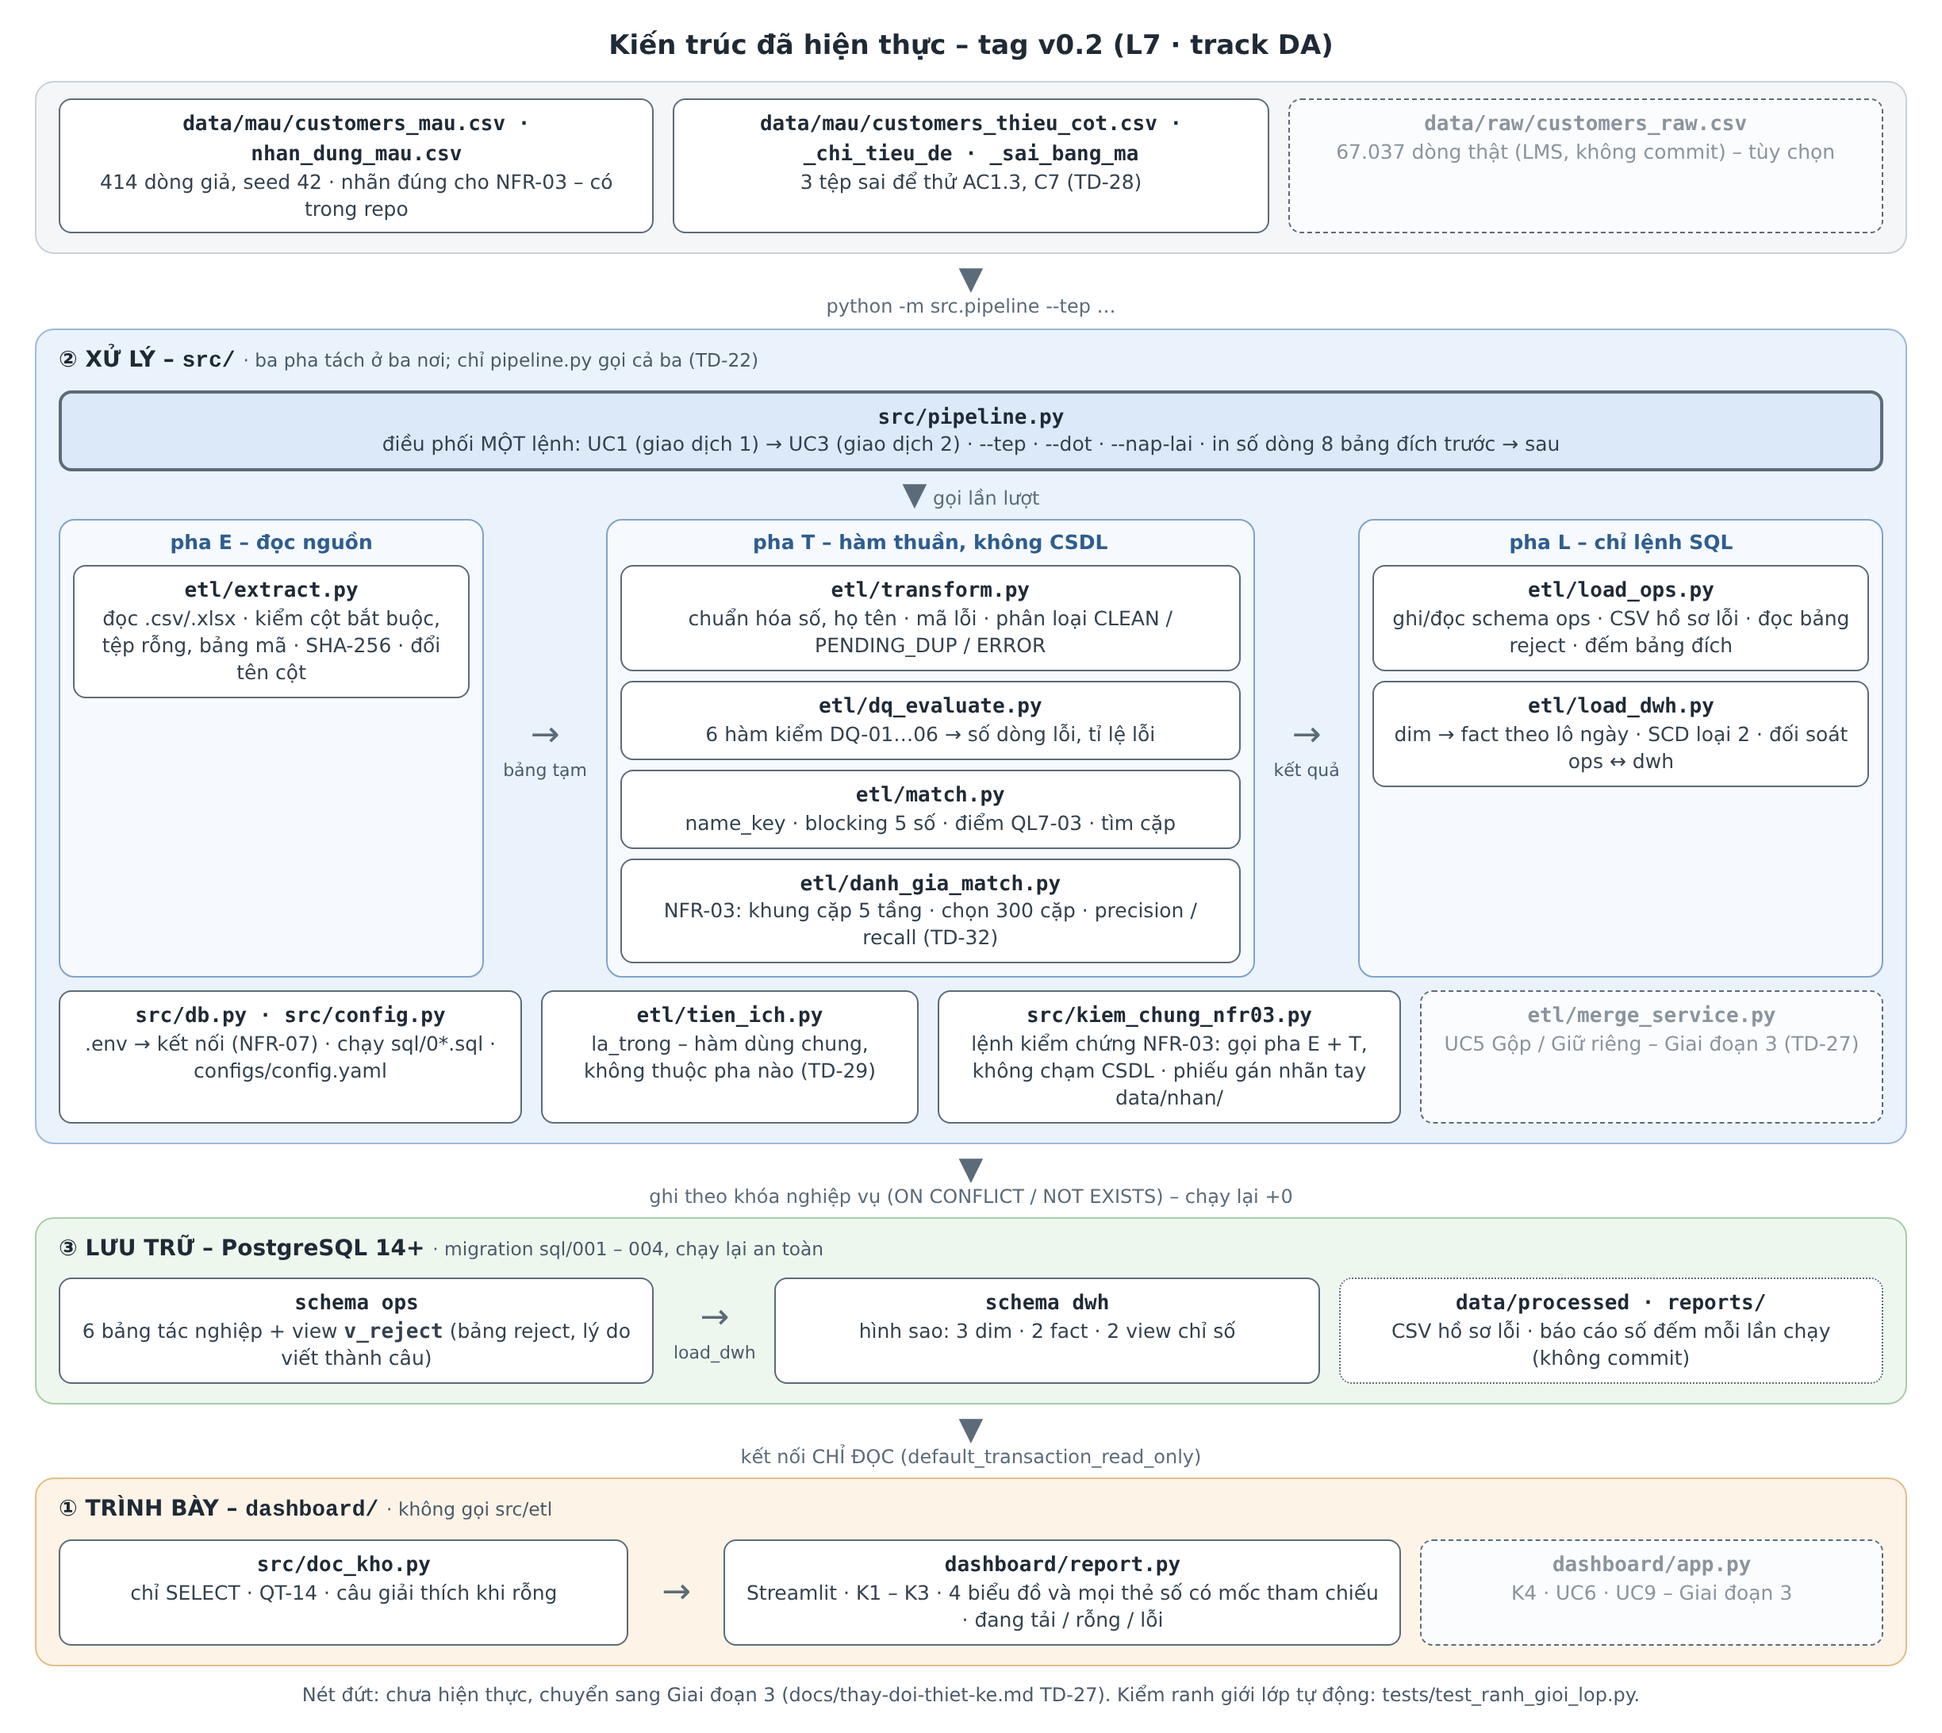
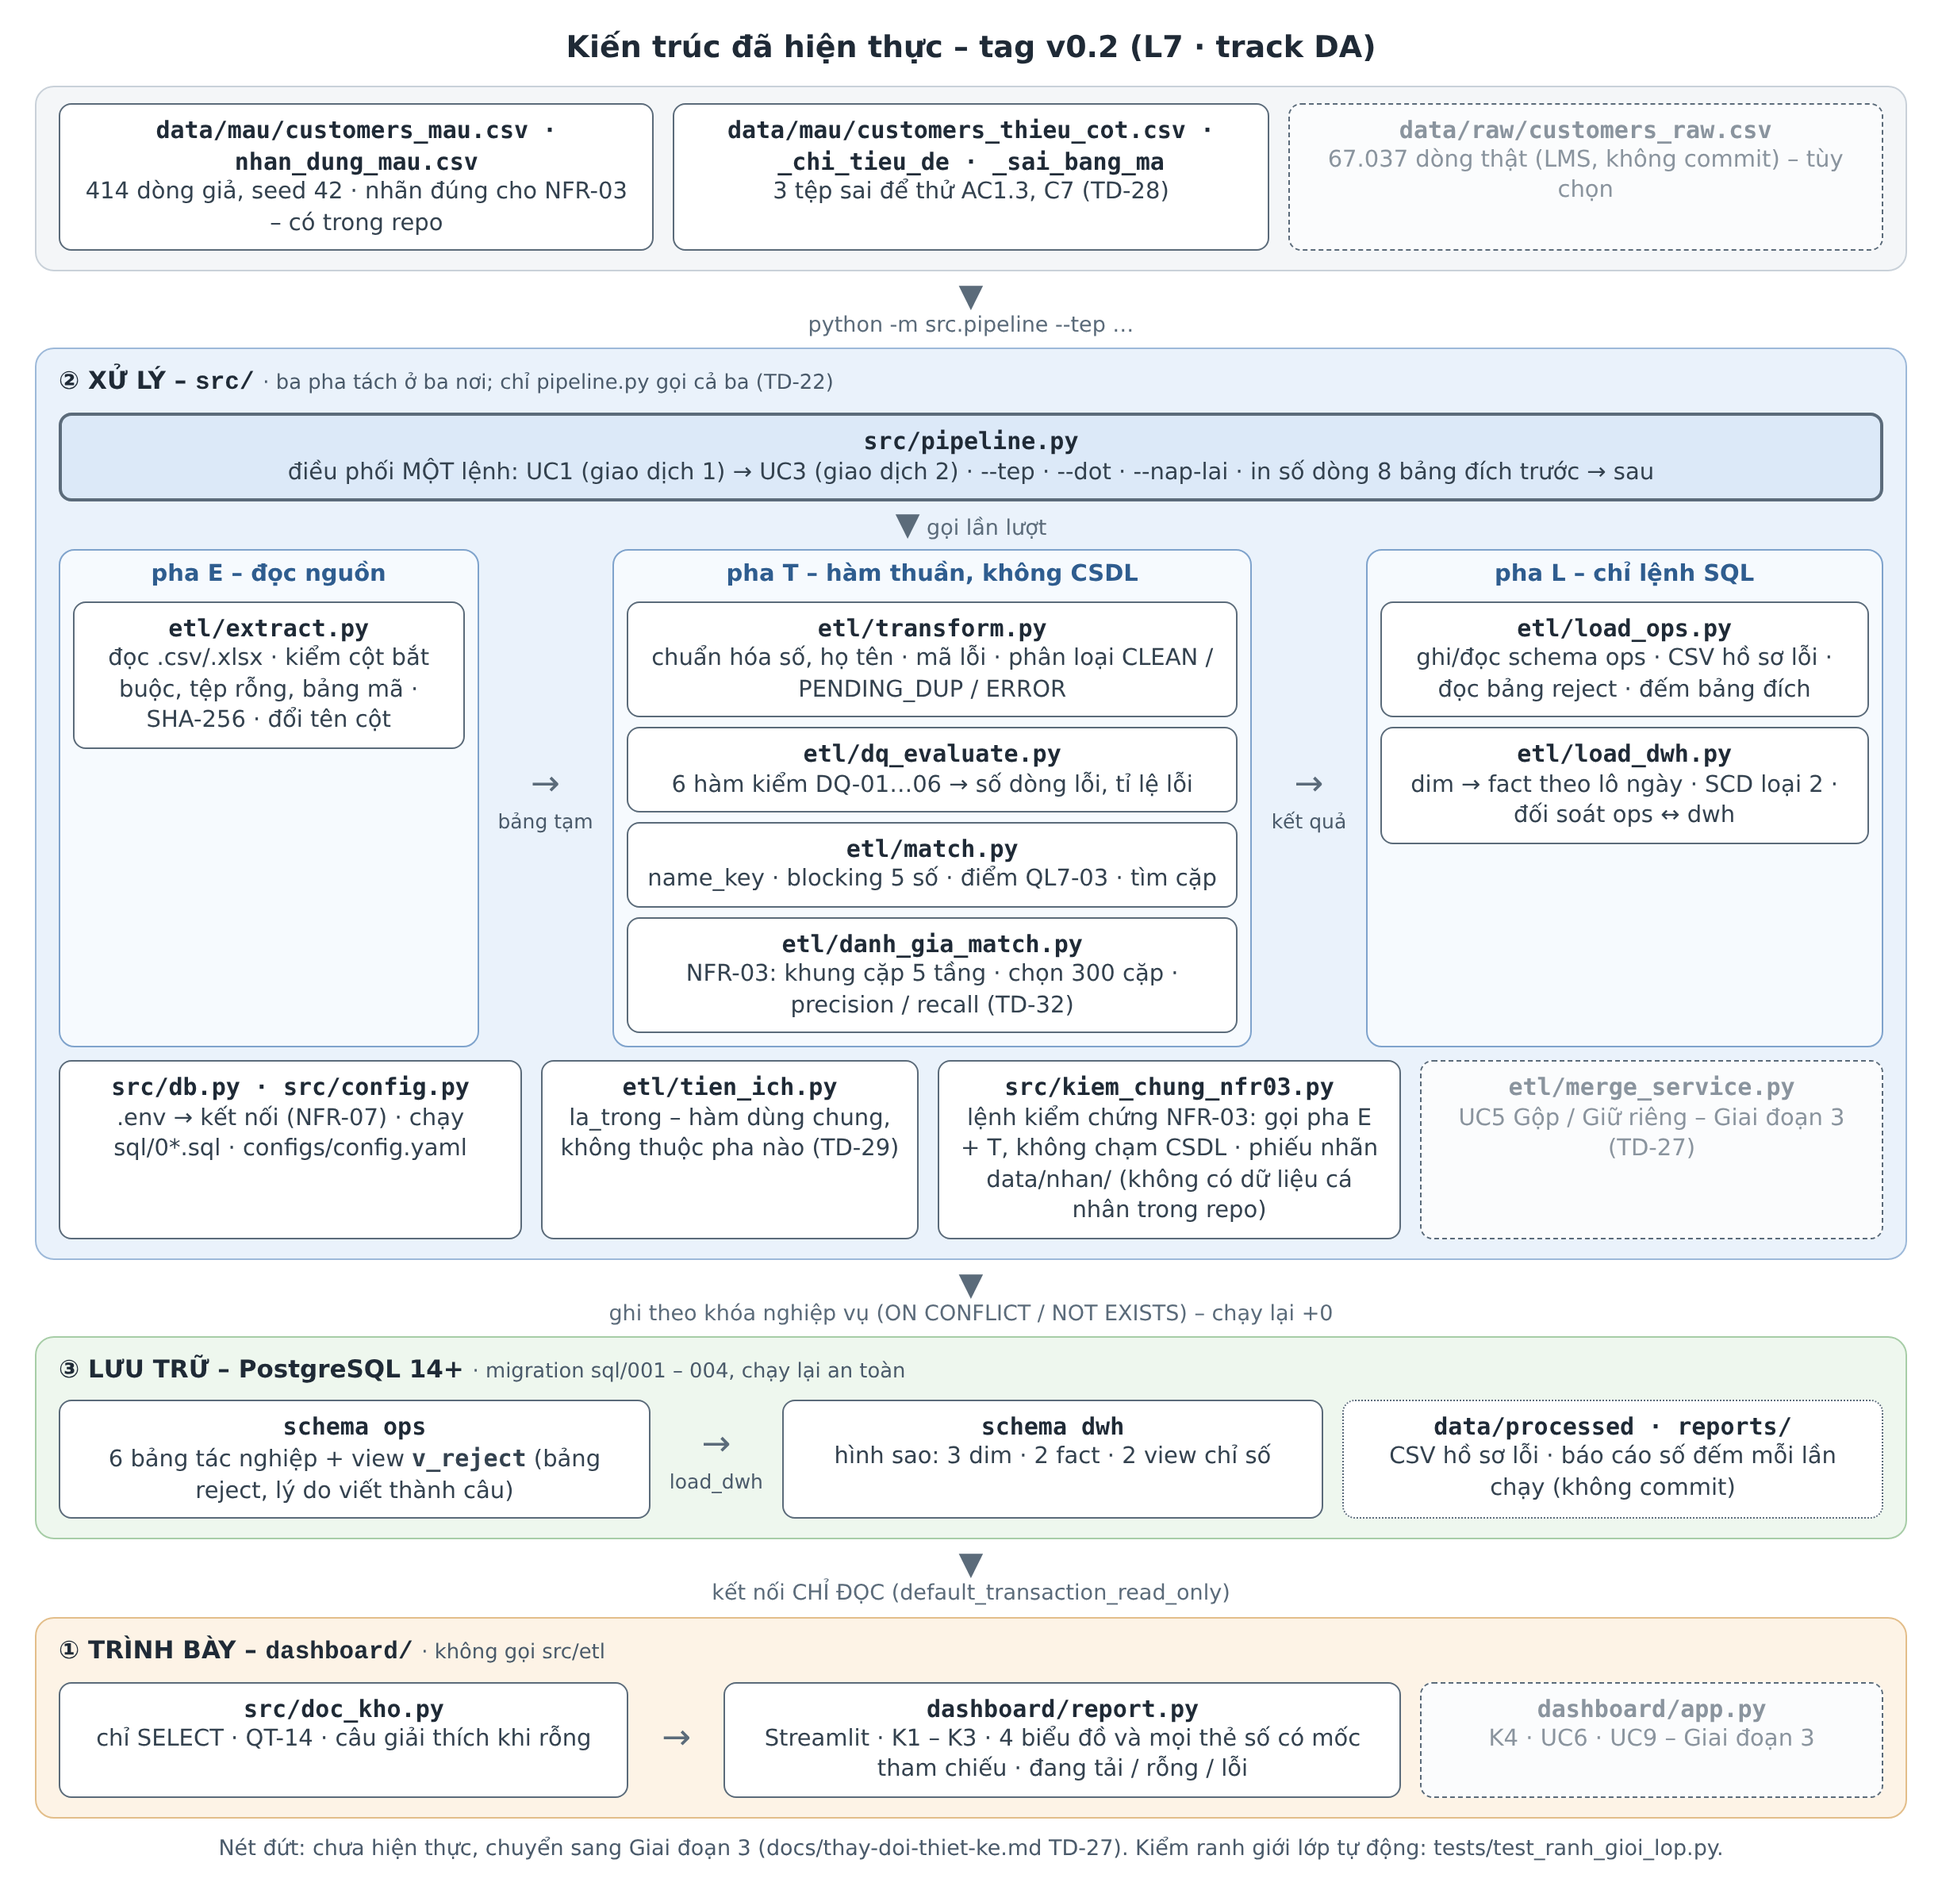
docs(kiến trúc): chữ trong sơ đồ đã hiện thực to hơn cho bản in (nhận xét BT1); ô kiem_chung_nfr03 ghi phiếu nhãn không có dữ liệu cá nhân
Claude-Session: https://claude.ai/code/session_01PMTm2ef48EpwJnyuXoDa6z

diff --git a/docs/architecture-thuc-te.html b/docs/architecture-thuc-te.html
@@ -3,28 +3,28 @@
      ở các điểm ghi trong docs/thay-doi-thiet-ke.md TD-22 – TD-32. Mở bằng trình duyệt; ảnh: docs/export/architecture-thuc-te.png -->
 <html lang="vi"><head><meta charset="utf-8"><title>Kiến trúc đã hiện thực – v0.2</title>
 <style>
-  body{margin:0;background:#fff;font:14px/1.35 "DejaVu Sans",Arial,sans-serif;color:#1f2a36}
+  body{margin:0;background:#fff;font:15px/1.35 "DejaVu Sans",Arial,sans-serif;color:#1f2a36}
   .khung{width:1180px;padding:18px 22px}
-  h1{font-size:17px;margin:0 0 10px;text-align:center}
+  h1{font-size:19px;margin:0 0 10px;text-align:center}
   .bang{border-radius:12px;padding:10px 14px 12px;margin:0}
-  .bang>.nhan{font-weight:700;font-size:14px;margin-bottom:8px}
+  .bang>.nhan{font-weight:700;font-size:15.5px;margin-bottom:8px}
   .nhan small{font-weight:400;color:#4a5a6a}
   .b2{background:#EAF2FB;border:1.5px solid #9DB9D9}.b3{background:#EEF7EE;border:1.5px solid #A7CDA7}
   .b1{background:#FDF3E6;border:1.5px solid #E3BE8A}.b0{background:#F4F6F8;border:1.5px solid #C9D1D9}
   .o{background:#fff;border:1.3px solid #5B6B7A;border-radius:8px;padding:6px 10px;text-align:center}
-  .o b{font-family:"DejaVu Sans Mono",monospace;font-size:13px}
-  .o div{font-size:12.5px;color:#34424f}
+  .o b{font-family:"DejaVu Sans Mono",monospace;font-size:15px}
+  .o div{font-size:14.5px;color:#34424f}
   .cho{border-style:dashed;color:#8A949E;background:#fbfcfd}.cho b,.cho div{color:#8A949E}
   .hang{display:flex;gap:12px;align-items:stretch}
   .pha{flex:1;border:1.3px solid #7FA3CC;border-radius:10px;padding:6px 8px 8px;background:#F6FAFE}
-  .pha .t{font-weight:700;font-size:12.5px;color:#2F5D8F;margin-bottom:6px;text-align:center}
+  .pha .t{font-weight:700;font-size:14.5px;color:#2F5D8F;margin-bottom:6px;text-align:center}
   .pha .o{margin-top:6px}
   .mui{display:flex;align-items:center;justify-content:center;font-size:22px;color:#5B6B7A;min-width:36px;flex-direction:column}
-  .mui span{font-size:11px;color:#4a5a6a}
-  .xuong{text-align:center;color:#5B6B7A;font-size:12px;margin:5px 0}
+  .mui span{font-size:12.5px;color:#4a5a6a}
+  .xuong{text-align:center;color:#5B6B7A;font-size:13.5px;margin:5px 0}
   .xuong .m{font-size:20px;line-height:1}
   .chinh{background:#DCE9F8;border:2px solid #5B6B7A}
-  .ghi{font-size:12px;color:#4a5a6a;margin-top:10px;text-align:center}
+  .ghi{font-size:13.5px;color:#4a5a6a;margin-top:10px;text-align:center}
 </style></head><body><div class="khung" id="so-do">
 <h1>Kiến trúc đã hiện thực – tag v0.2 (L7 · track DA)</h1>
 
@@ -55,7 +55,7 @@
   <div class="hang" style="margin-top:8px">
     <div class="o" style="flex:1"><b>src/db.py · src/config.py</b><div>.env → kết nối (NFR-07) · chạy sql/0*.sql · configs/config.yaml</div></div>
     <div class="o" style="flex:.8"><b>etl/tien_ich.py</b><div>la_trong – hàm dùng chung, không thuộc pha nào (TD-29)</div></div>
-    <div class="o" style="flex:1"><b>src/kiem_chung_nfr03.py</b><div>lệnh kiểm chứng NFR-03: gọi pha E + T, không chạm CSDL · phiếu gán nhãn tay data/nhan/</div></div>
+    <div class="o" style="flex:1"><b>src/kiem_chung_nfr03.py</b><div>lệnh kiểm chứng NFR-03: gọi pha E + T, không chạm CSDL · phiếu nhãn data/nhan/ (không có dữ liệu cá nhân trong repo)</div></div>
     <div class="o cho" style="flex:1"><b>etl/merge_service.py</b><div>UC5 Gộp / Giữ riêng – Giai đoạn 3 (TD-27)</div></div>
   </div>
 </div>
